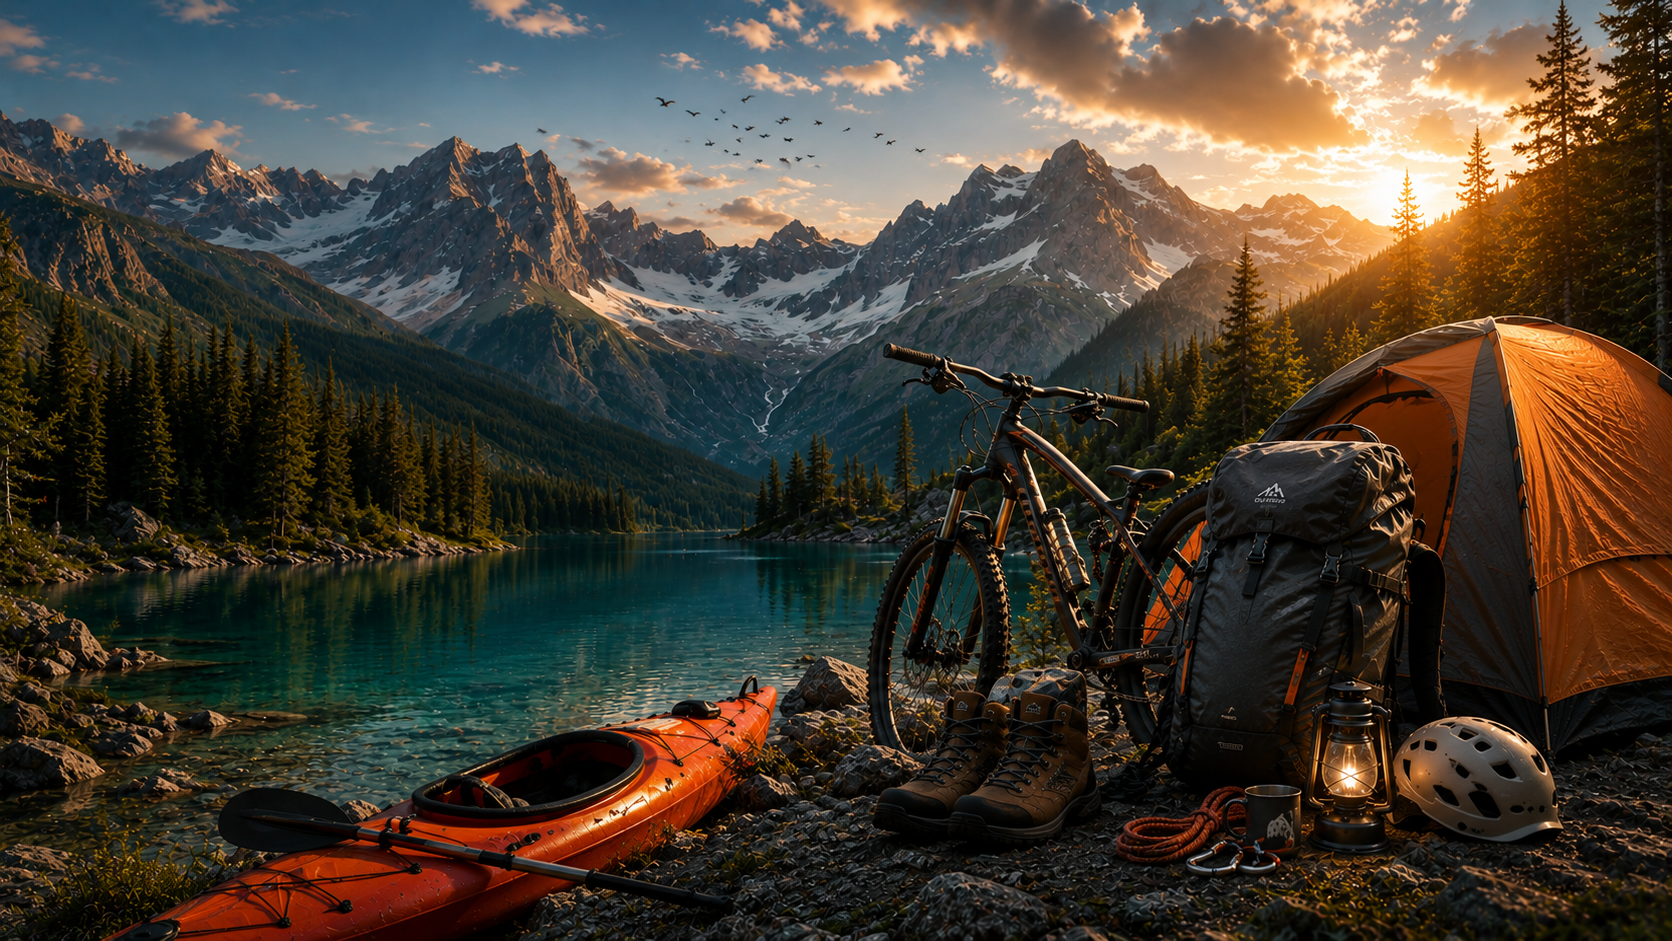
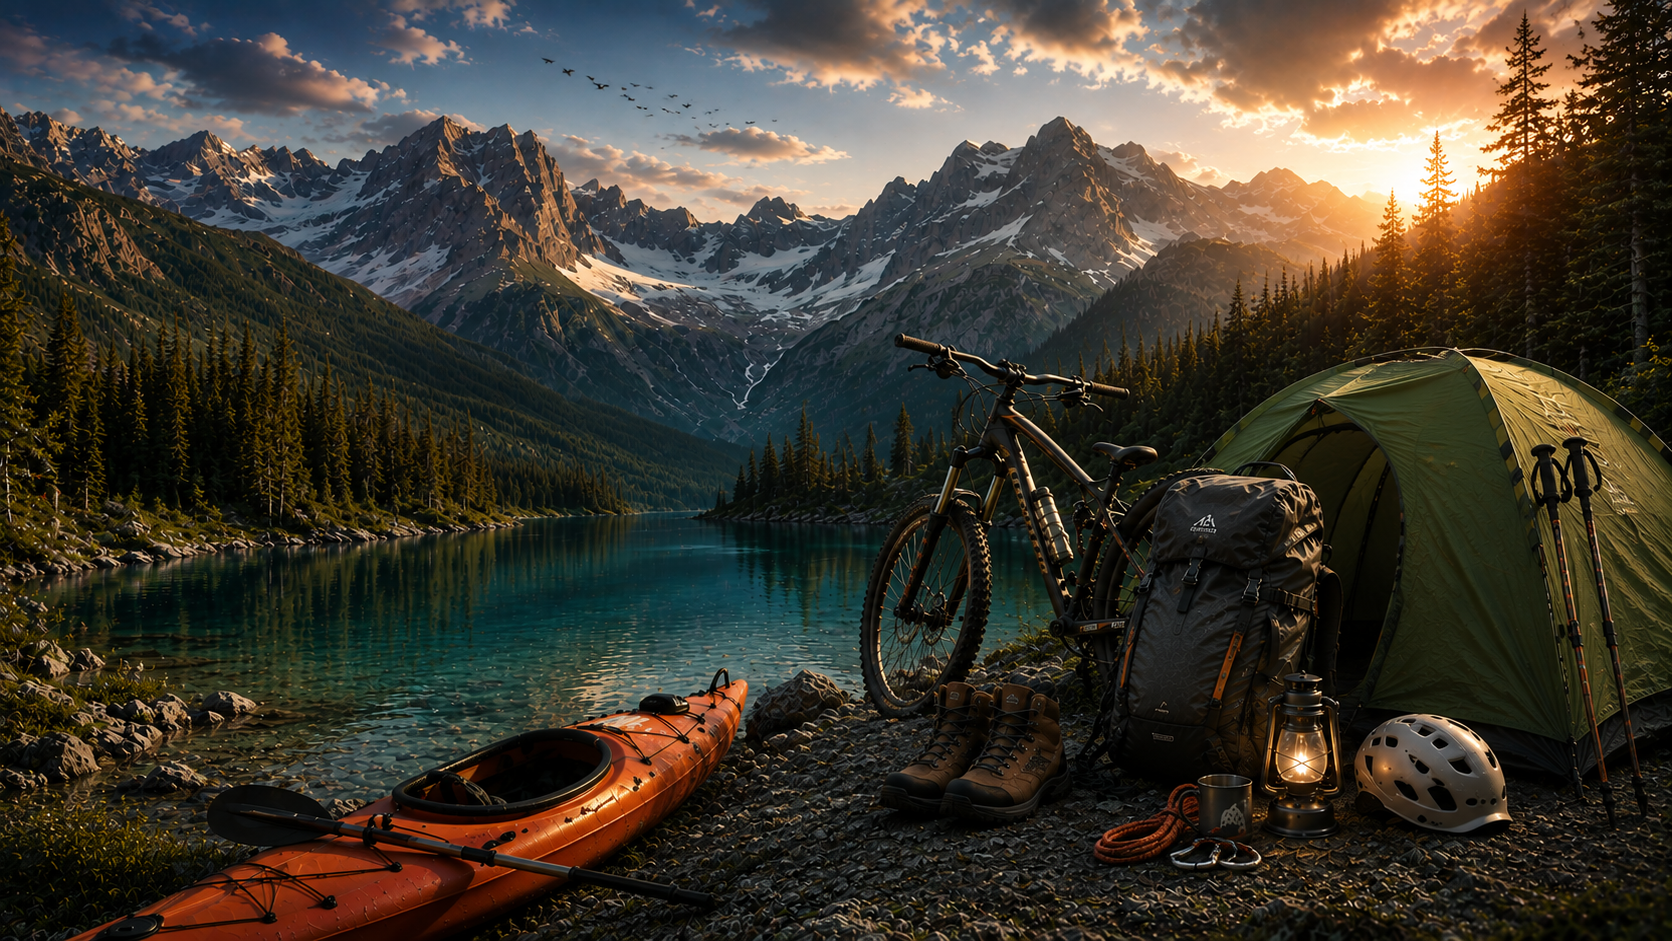
updated

diff --git a/src/component/navbar.tsx b/src/component/navbar.tsx
@@ -86,7 +86,7 @@ const Navbar = () => {
 
             {user ? (
               <div className="flex items-center gap-3">
-                <div className="w-10 h-10 rounded-full bg-primary text-black flex items-center justify-center text-sm font-bold border border-black/5">
+                <div className="w-10 h-10 rounded-full bg-primary text-white flex items-center justify-center text-sm font-bold border border-black/5">
                   {initials}
                 </div>
                 <div className="text-sm text-black mr-2">

diff --git a/src/app/globals.css b/src/app/globals.css
@@ -1,7 +1,7 @@
 @import "tailwindcss";
 
 @theme {
-  --color-primary: #F58220;
+  --color-primary: #556B2F;
 }
 
 .font-bebas {
